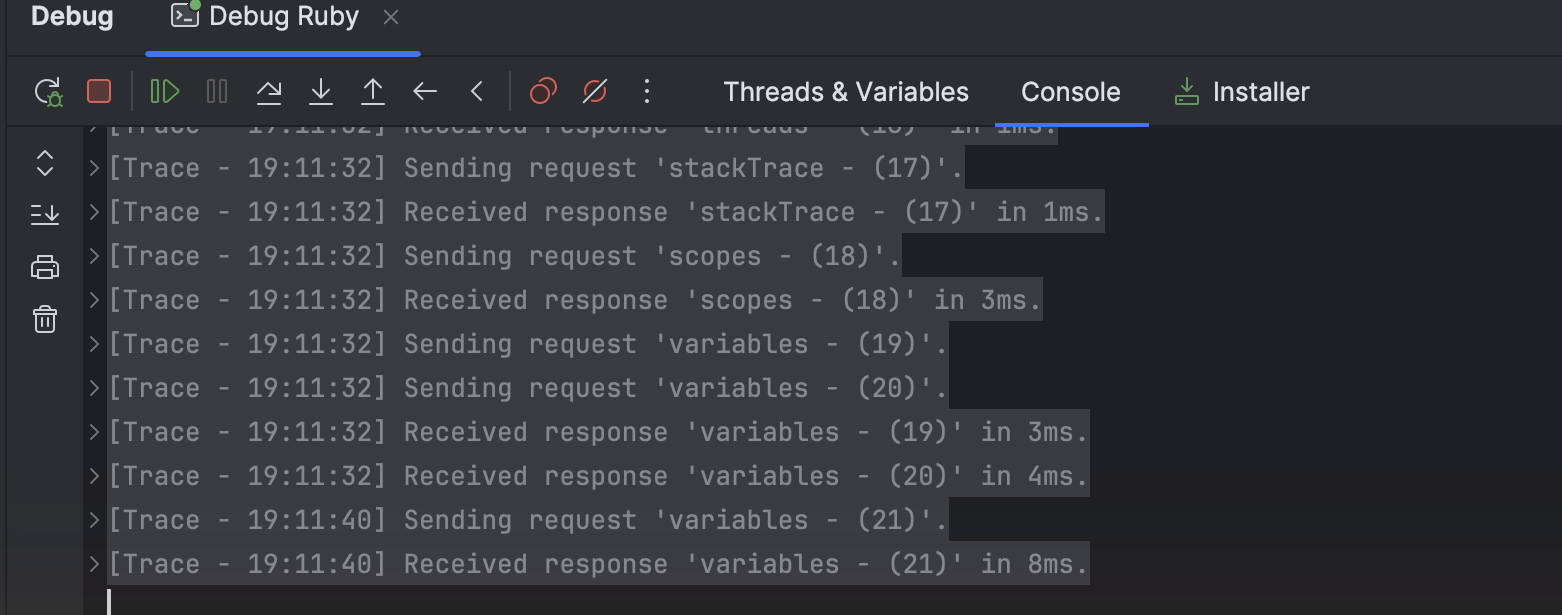
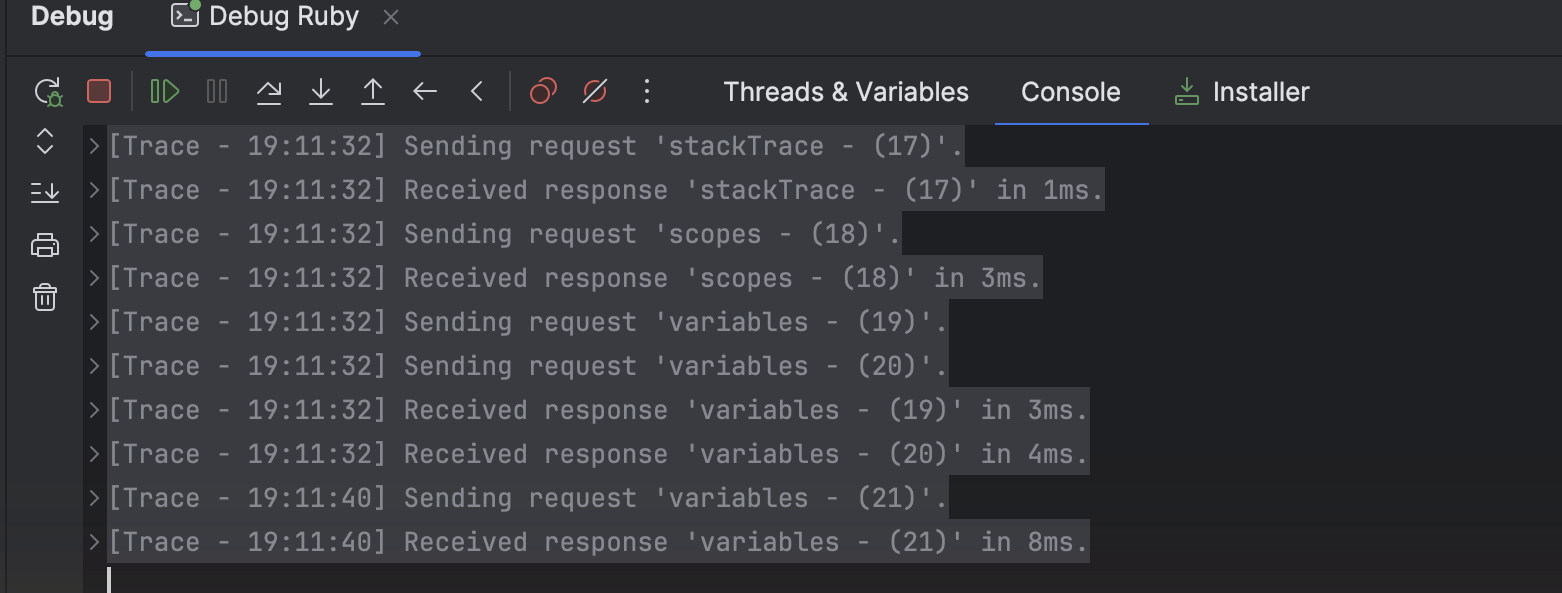
docs: show localfs in the Ruby rdbg attach configuration, and crop the half line of the traces screenshot
The page shows the attach configuration of the template with
"localfs": true, says why rdbg needs it, and that a program on another
machine needs localfsMap. The list item said "of the launch" for the attach
configuration. The screenshot of the traces started with a line cut in half
by the console's scroll position: it now starts with the first whole line.

diff --git a/docs/dap/user-defined-dap/ruby-rdbg.md b/docs/dap/user-defined-dap/ruby-rdbg.md
@@ -80,15 +80,20 @@ As you have selected `Ruby Debug` server, it will automatically populate the `At
 ![DAP Configuration/Configuration](../images/ruby-rdbg/configuration_tab.png)
 
 1. Select `Attach` as `Debug mode`: the template also has a launch configuration, so the dialog opens on `Launch`.
-2. The DAP parameters of the launch should look like this:
+2. The DAP parameters of the attach configuration should look like this:
 
 ```json
 {
   "type": "rdbg",
   "name": "Attach with rdbg",
-  "request": "attach"
+  "request": "attach",
+  "localfs": true
 }
 ```
+
+`localfs` tells rdbg that the program runs on the same file system as the IDE. When it attaches, rdbg maps the files of
+the program to the local files only with `localfs` or `localfsMap`, so without it no breakpoint is hit. For a program on
+another machine, use `localfsMap` instead.
 
 `Port input` is pre-filled with `$port`, which means that the `port` of the JSON configuration is used as the port.
 The configuration of the template has no `port`, so add the port of `rdbg` to it, `"port": 12345` for the command
